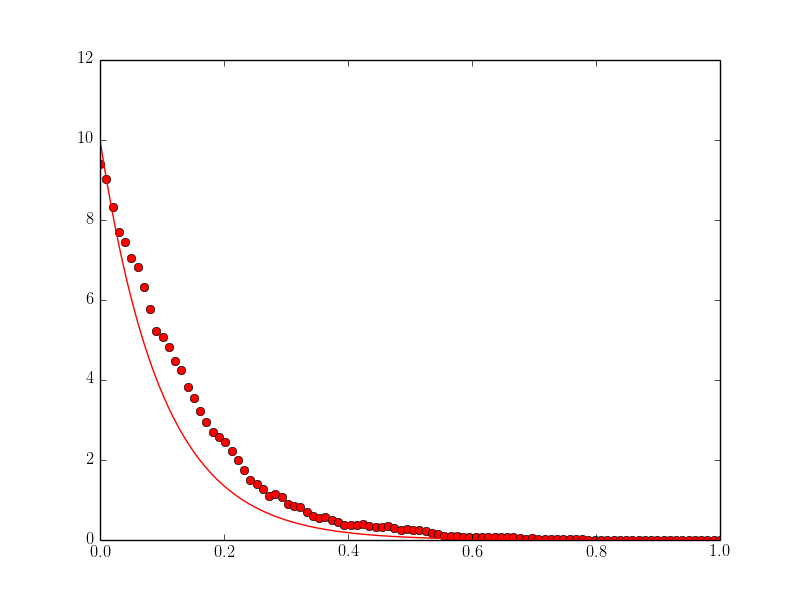
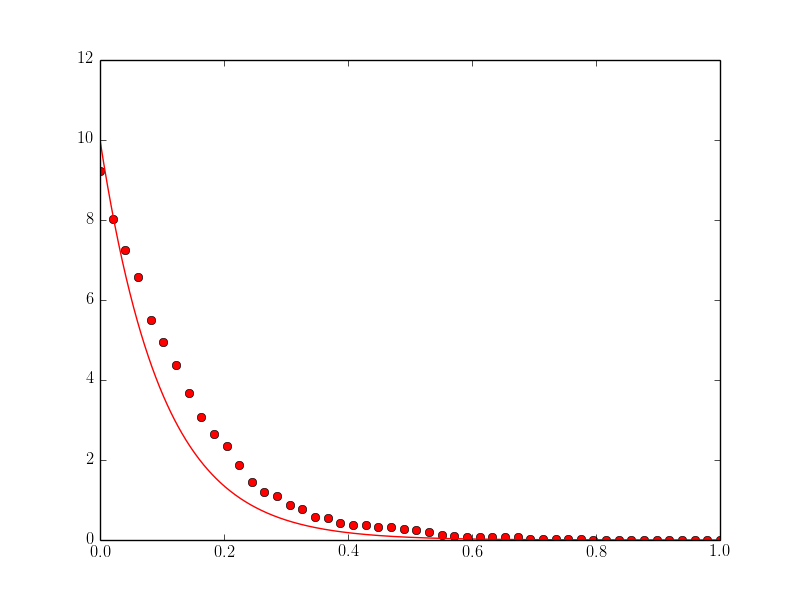
Working on automated path structure. It now works in python.

diff --git a/assignments/a1/visual.py b/assignments/a1/visual.py
@@ -1,7 +1,9 @@
 #!/usr/bin/env python
 
+####### Imports ##############
 import numpy as np
 from numpy import linspace
+
 import matplotlib
 matplotlib.use('Agg');
 import matplotlib.pyplot as plt
@@ -9,28 +11,47 @@ from matplotlib import rc
 rc('text', usetex=True);
 
 from scipy.integrate import quad
+##############################
 
+
+#
+# Graph data: index=x, data=y
+#
 def graph(file_name):
     (length, width, data) = read_matrix(file_name);
     plt.figure();
     x = linspace(0, length - 1, length);
     y = data;
     plt.plot(x, y);
-    plt.savefig(file_name + '.png');
 
+    print('Generating plot: ' + file_name + '.png');
+    plt.savefig(paths['PATH_FIG'] + file_name + '.png');
+
+#
+# Reversed graph of data: index=y, data=x
+#
 def graph_r(file_name):
     (length, width, data) = read_matrix(file_name);
     plt.figure();
     y = linspace(0, length - 1, length);
     x = data;
     plt.plot(x, y);
-    plt.savefig(file_name + '.png');
 
-def hist(file_name):
+    print('Generating reversed plot: ' + file_name + '.png');
+    plt.savefig(paths['PATH_FIG'] + file_name + '.png');
+
+#
+# Histogram of data
+#
+# Optional arguments:
+#   - n_bins: number of bins (std=100)
+#   - normalize: toggle normalization of data (std=false)
+#
+def hist(file_name, n_bins = 100, normalize = False):
     (length, width, data) = read_flat(file_name);
-    n_bins = 100;
+    print('bins: ' + str(n_bins) + ', normalize: ' + str(normalize));
 
-    hist, bins = np.histogram(data, bins = n_bins, normed=True);
+    hist, bins = np.histogram(data, bins = n_bins, normed = normalize);
     plt.figure();
     #plt.hist(data, bins = bins);
     plt.plot(np.linspace(0, 1, n_bins), hist, 'ro');
@@ -39,16 +60,20 @@ def hist(file_name):
     f = lambda x: np.exp(-x * 10) / (4.17E-21 * (1 - np.exp(-10)));
     area = quad(f, 0.0, 1)[0];
     func = lambda x: f(x) / area;
-    print(area);
-    print(quad(func, 0.0, 1));
     plt.plot(x, func(x), 'r');
     #plt.axis([0, length, 0, iterations]);
     #plt.xlabel('$x$');
     #plt.ylabel('Count time');
-    plt.savefig(file_name + '.png');
+    print('Generating histogram: ' + file_name + '.png');
+    plt.savefig(paths['PATH_FIG'] + file_name + '.png');
 
+#
+# Read data as matrix
+#
 def read_matrix(file_name):
-    fid = open(file_name + '.dat', 'r');
+    print('Reading file: ' + str(file_name) + '.dat');
+    print('Interpret: matrix');
+    fid = open(paths['PATH_OUTPUT'] + file_name + '.dat', 'r');
     lines = fid.readlines();
     length = len(lines);
     width = len(lines[0].split());
@@ -56,14 +81,18 @@ def read_matrix(file_name):
     print('lines: ' + str(length) + ', columns: ' + str(width));
     return (length, width, data);
 
+#
+# Read data flattened
+#
 def read_flat(file_name):
-    fid = open(file_name + '.dat', 'r');
+    print('Reading file: ' + str(file_name) + '.dat');
+    print('Interpret: flattened');
+    fid = open(paths['PATH_OUTPUT'] + file_name + '.dat', 'r');
     lines = fid.readlines();
     length = len(lines);
     width = len(lines[0].split());
     data = [float(element.strip()) for line in lines for element in line.split()];
     print('lines: ' + str(length) + ', columns: ' + str(width));
-    print('flattened');
     return (length, width, data);
 
 import term_con

diff --git a/assignments/a1/term_con.py b/assignments/a1/term_con.py
@@ -2,24 +2,54 @@
 
 path_structure_file_name = ".structure";
 
+
+#
+# Raises error if string is not a bool
+#
+def bool_check(string):
+    if (string not in ("True", "False")):
+        raise ValueError;
+    return string == "True";
+
+
+#
+# Processing argument string into correct type
+#
+def process_argument(argument_string):
+    for convert in [int, float, bool_check]:
+        try:
+            arg = convert(argument_string);
+            return arg;
+        except ValueError:
+            pass;
+    return argument_string;
+
+
+#
+# Handles calls to python script from terminal
+#
 def terminal_call(functions):
     import sys
     from collections import deque
     arguments = deque(sys.argv[1:]);
     sys_args = [];
     while(len(arguments) > 0 and len(arguments[0]) > 0 and arguments[0][0] == '-'):
-        sys_args.append(arguments.popleft()[1:]);
+        sys_args.append(process_argument(arguments.popleft()[1:]));
     while (len(arguments) != 0):
         func = arguments.popleft();
-        func_args = []
+        func_args = [];
         while(len(arguments) > 0 and len(arguments[0]) > 0 and arguments[0][0] == '-'):
-            func_args.append(arguments.popleft()[1:]);
+            func_args.append(process_argument(arguments.popleft()[1:]));
         try:
             functions[func](*func_args);
         except KeyError:
-            print('TermCon Error: Cannot find function named: ' + func);
+            print('TermCon fatal error: Cannot find function named: ' + func);
             exit();
 
+
+#
+# Returns a dictionary containing local pahts
+#
 def get_path_structure():
     paths = {};
     fid = open(path_structure_file_name, 'r');
@@ -29,7 +59,7 @@ def get_path_structure():
             continue;
         data = line.split('=');
         if (len(data) != 2):
-            print('Parse error: invalid file syntax on\n' + str(data));
+            print('Parsing fatal error: invalid file syntax on\n' + str(data));
             exit();
         paths[data[0].strip()] = data[1].strip();
     return paths;
